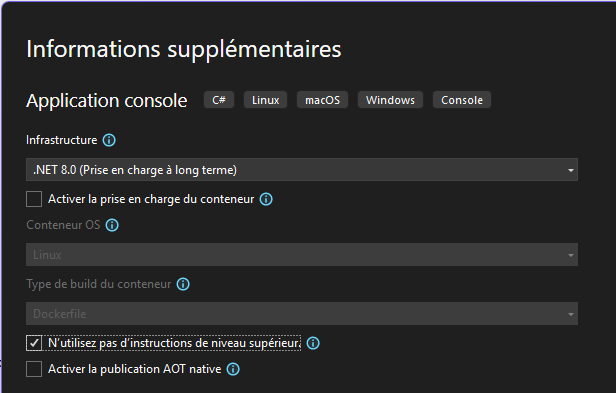
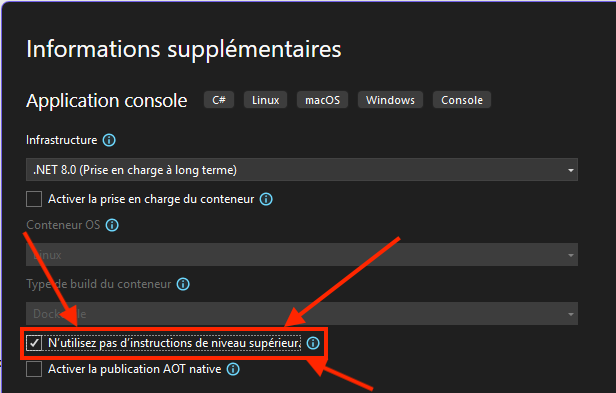
Mise à jour du TP1

diff --git a/web/docs/02-tp/01-tp1.md b/web/docs/02-tp/01-tp1.md
@@ -15,12 +15,23 @@ Créer un programme console qui permet à un joueur de créer un personnage de j
 | Variables | Stocker les infos du joueur (nom, âge, classe, pv, force, intelligence, vitesse) |
 | Initialisation | Donner des valeurs par défaut aux variables globales |
 | Méthodes simples | Utiliser des méthodes comme `InitialiserStats()` et `AfficherPersonnage(...)` avec paramètres |
-| Méthode avec retour | Ajouter `ObtenirVitesseParClasse(char)` qui retourne un `float` |
+| Méthode avec retour | Ajouter `ObtenirVitesseParClasse(char)` qui retourne un `double` |
 | Conditions (`if`, `else if`) | Modifier les stats selon la classe et l’âge |
 | Commentaires | Ajouter des commentaires dans le code |
-| Planification | Écrire un pseudo-code ou plan avant de coder |
 
 ---
+
+## 🧑💻👩💻 Création du projet
+:::danger Plagiat
+
+À la création du projet, assurez-vous de cocher l'option **N'utilisez pas d'instructions de niveau supérieur**.
+![Création du projet](_01-tp1/projet.png)
+
+De cette façon votre projet sera créé comme dans l'image ici 👇 .
+![Projet de départ](_01-tp1/main.png)
+
+:::
+
 
 ## 🧮 Variables globales
 
@@ -47,8 +58,8 @@ La méthode `Main()` doit :
    - Lire et valider le nom
    - Lire et valider l’âge
    - Lire et valider la classe
-3. Initialiser les statistiques du personnage selon les règles
-4. Afficher le résumé du personnage
+   - Initialiser les statistiques du personnage selon les règles
+   - Afficher le résumé du personnage
 
 ---
 
@@ -71,6 +82,11 @@ Valide que le nom n’est pas vide.
 Valide que l’âge est un entier positif. 
 Si l’entrée n’est pas valide, retourne 18 par défaut.
 
+:::tip Note
+Regarder la méthode `TryParse` pour vous aider
+:::
+
+
 ---
 
 ### `LireClasse()`
@@ -89,12 +105,29 @@ Si l’entrée n’est pas valide, retourne `'G'` par défaut.
 
 Affecte les bonnes valeurs aux statistiques selon la classe et l’âge.
 
+:::info 🎲 Modificateurs par classe
+
+| Classe   | PV  | Force | Intelligence |
+|----------|-----|-------|--------------|
+| Guerrier | 20  | 15    | 5            |
+| Magicien | 12  | 5     | 18           |
+| Voleur   | 15  | 10    | 10           |
+
+:::
+
+:::info 📈 Modificateurs par âge
+
+- **Âge ≤ 40** → -5 Intelligence, -5 Force
+- **Âge > 40** → +10 Intelligence, +10 Force, -20 PV
+
+:::
+
 ---
 
 ### `ObtenirVitesseParClasse(char classe)`
 
 - **Paramètres** : un caractère représentant la classe  
-- **Retour** : un nombre décimal (`float`) représentant la vitesse
+- **Retour** : un nombre décimal (`double`) représentant la vitesse
 
 | Classe | Vitesse |
 |--------|---------|
@@ -113,7 +146,7 @@ Affiche les statistiques du personnage.
 
 ---
 
-## 📜 Règles d’affaires
+## 📜 Rappel des règles d’affaires
 
 - **Nom invalide** (vide ou espaces) → `"Anonyme"`
 - **Âge invalide** (non entier ou négatif) → `18`
@@ -141,13 +174,73 @@ Affiche les statistiques du personnage.
 
 # 🧾 Grille de correction – TP1 : Créateur de personnage
 
-> **⚠ Compilation obligatoire :**
-> - ✅ Le code compile : correction complète selon les critères ci-dessous.
-> - ❌ Le code **ne compile pas** : note maximale **60%**.
-
+:::danger ⚠☢🔥ATTENTION!!!
+ **⚠ Compilation obligatoire :**
+ - ✅ Le code compile : correction complète selon les critères ci-dessous.
+ - ❌ Le code **ne compile pas** : note maximale **60%**.
+:::
 ---
 
 ## 🔍 Évaluation détaillée
+
+:::info ✅ Le code compile sans erreur **Obligatoire**
+Tout code qui n'est pas fonctionnel doit être placé en commentaire.
+:::
+
+:::note 🧾 Les **variables globales** - /10 points   
+ - Toutes les variables sont présentes.
+ - Les variables sont bien utilisés.
+ - Les variables sont du bon type.
+:::
+
+:::note 🔤 Lecture du **nom** - /10 points
+ - Création de la méthode.
+ - Utilisation d'une valeur de retour.
+ - Les variables sont du bon type.
+ - Bon fonctionnement du code.
+ - Application la bonne valeur lors que l'information entrée n'est pas valide.
+:::
+
+:::note 🔢 Lecture de l'**âge** - /10 points
+ - Création de la méthode.
+ - Utilisation d'une valeur de retour.
+ - Les variables sont du bon type.
+ - Bon fonctionnement du code.
+ - Application la bonne valeur lors que l'information entrée n'est pas valide.
+:::
+
+:::note 🎭 Lecture de la **classe** - /10 points
+ - Création de la méthode.
+ - Utilisation d'une valeur de retour.
+ - Les variables sont du bon type.
+ - Bon fonctionnement du code.
+ - Application la bonne valeur lors que l'information entrée n'est pas valide.
+:::
+
+:::note 🧠 Initialisation des statistiques - /20 points
+ - Création de la méthode.
+ - Les variables sont du bon type.
+ - Application correcte des **modificateurs** selon la **classe**.
+ - Application correcte des **modificateurs** selon l’**âge**.
+:::
+
+:::note 🧠 Initialisation de la vitesse - /20 points
+ - Création de la méthode.
+ - Présence et utilisation du paramètre.
+ - Les variables sont du bon type.
+ - Bon fonctionnement du code.
+:::
+
+
+:::note 🖨 Affichage du personnage - /10 points
+ - Création de la méthode.
+ - Présence et utilisation des paramètres.
+ - Les variables sont du bon type.
+ - Affichage final clair avec `Console.WriteLine()`.
+:::
+
+
+
 
 | Critère | Points |
 |--------|--------|
